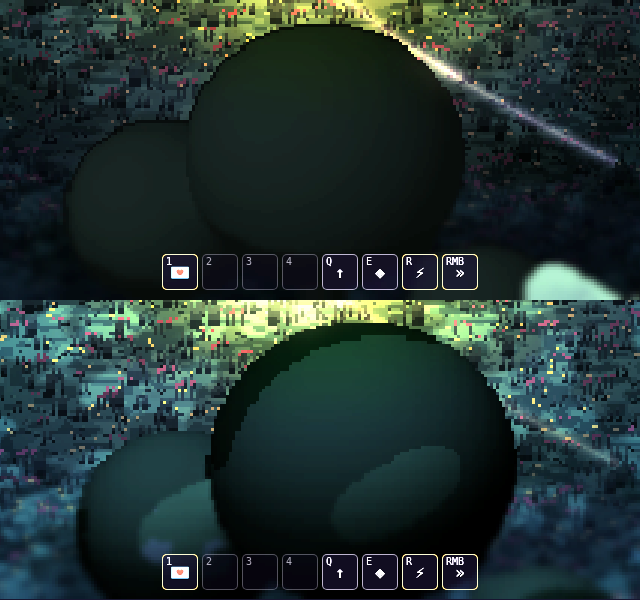
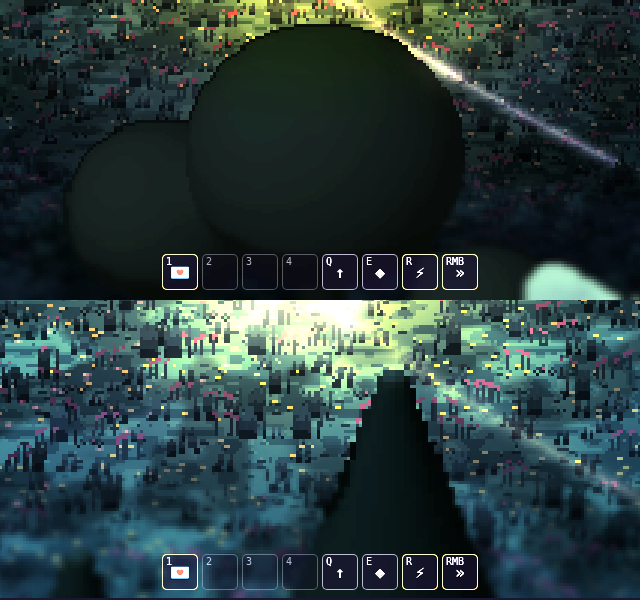
The legends' back forest: little spruces of stacked tiers, not round lollipop crowns
The moss feature (the elk's and the bear's legends) grew three trees with
ellipsoid crowns, which read as flat round domes from the game's camera
(golf's find, with the art director's round 2). Same heights; tiered cones in
LEAF3 and LEAF2. Art check passes.

Claude-Session: https://claude.ai/code/session_01FVGKHvaavDn5xGsWtRTBaz

diff --git a/tools/art-lab/dist/witch-art-lab.html b/tools/art-lab/dist/witch-art-lab.html
@@ -4364,7 +4364,7 @@ const TEMPLATES = {
       motes: [0, 0, 3, 9],              // glowing motes round adults and legends
     },
   },
-  avian: { name: "Bird", builders: ["owl", "raven"], sizes: { head: [.48, .36, .36, .36], headY: [.95, 1.08, 1.08, 1.08], build: [1, 1, 1.18, 1.18], motes: [0, 0, 3, 9] }, sockets: { wings: ["wing.folded", "wing.spirit"], head: ["head.round", "head.beak"] }, exclude: [], texture: { kind: "feathers" }, face: { brow: "tuft", happy: "arc", dazed: "wobble" }, gait: { offsets: [0, .5], dutyWalk: .6, dutyRun: .4 } },
+  avian: { name: "Bird", builders: ["owl", "raven", "heron"], sizes: { head: [.48, .36, .36, .36], headY: [.95, 1.08, 1.08, 1.08], build: [1, 1, 1.18, 1.18], motes: [0, 0, 3, 9] }, sockets: { wings: ["wing.folded", "wing.spirit"], head: ["head.round", "head.beak"] }, exclude: [], texture: { kind: "feathers" }, face: { brow: "tuft", happy: "arc", dazed: "wobble" }, gait: { offsets: [0, .5], dutyWalk: .6, dutyRun: .4 } },
   flyer: { sizes: TEMPLATE_SMALL_SIZES, name: "Flyer", builders: ["bat", "moth"], sockets: { wings: ["wing.membrane", "wing.scaled"] }, exclude: [], texture: { kind: "fur" }, face: { brow: "tuft", happy: "squint", dazed: "x" }, gait: { offsets: [], dutyWalk: 0, dutyRun: 0 } },
   serpent: { sizes: TEMPLATE_SMALL_SIZES, name: "Serpent or worm", builders: ["snake", "glowworm"], sockets: { head: ["head.snake", "head.worm"], tailTip: ["tail.lantern"] }, exclude: [], texture: { kind: "scales" }, face: { brow: "ridge", happy: "squint", dazed: "x" }, gait: { offsets: [], dutyWalk: 1, dutyRun: 1 } },
   insectoid: { sizes: TEMPLATE_SMALL_SIZES, name: "Many-legged", builders: ["beetle", "spider", "woodlouse"], sockets: { head: ["jaw.stag", "eyes.cluster", "antenna"] }, exclude: [], texture: { kind: "plates" }, face: { brow: "ridge", happy: "arc", dazed: "wobble" }, gait: { offsets: [0, .5, 0, .5, 0, .5], dutyWalk: .6, dutyRun: .5 } }, // alternating tripods
@@ -5039,7 +5039,9 @@ function quad3d(S, level, frame, st, facing = "towards") {
   if (has("crystals")) [.15, .3, .45, .6, .75].forEach((t, i) => { const b = backAt(t), h = [.3, .5, .4, .6, .35][i]; m.ell(v3.add(b, [0, h * .45, (i % 2 - .5) * .1]), [h * .55, .08, .08], M.MAGIC, { dir: [(i - 2) * .12, 1, 0], group: 80 + i % 2, extra: true, paint: p => p[2] > 0 ? M.MAGIC2 : undefined }); });
   if (has("moss")) {
     for (let i = 0; i < 6; i++) m.ell(backAt(.08 + i * .15), [len * .22, .07, bw * .85], M.LEAF, { group: 85, extra: true });
-    for (const [t, h] of [[.25, .55], [.5, .8], [.75, .45]]) { const b = backAt(t); m.seg(b, v3.add(b, [0, h * .7, 0]), .04, .025, M.TRUNK, { group: 86, extra: true }); m.ell(v3.add(b, [0, h * .8, 0]), [h * .28, h * .26, h * .28], M.LEAF2, { group: 87, extra: true, paint: p => p[1] < b[1] + h * .72 ? M.LEAF3 : undefined }); }
+    // its forest (a legendary feature, DESIGN.md): little spruces of stacked tiers, not round lollipop crowns, which read as
+    // flat domes from the game's camera (the art director's round 2: "mint domes"; golf's find); the same height as before
+    for (const [t, h] of [[.25, .55], [.5, .8], [.75, .45]]) { const b = backAt(t); m.seg(b, v3.add(b, [0, h * .5, 0]), .04, .025, M.TRUNK, { group: 86, extra: true }); for (let k = 0; k < 3; k++) { const y = h * (.22 + k * .24); m.seg(v3.add(b, [0, y, 0]), v3.add(b, [0, y + h * .38, 0]), h * .26 * (1 - k * .24), .012, k % 2 ? M.LEAF2 : M.LEAF3, { group: 87, extra: true }); } }
     for (const t of [.12, .4, .65, .9]) { const b = backAt(t); m.ell(v3.add(b, [0, .12, bw * .3]), [.07, .035, .07], M.MAGIC, { group: 89, extra: true }); }
   }
   if (has("ribbons")) for (let i = 0; i < 3; i++) { const pts = []; for (let k = 0; k < 9; k++) { const t = k / 8; pts.push([len * (.5 - t * 2.2), top + .05 + i * .1 + t * (.25 + i * .12) + Math.sin(t * 6 + frame + i) * .07, (i - 1) * .18, .04 * (1 - t * .6)]); } m.chain(pts, i % 2 ? M.MAGIC2 : M.MAGIC, { group: 90 + i, extra: true }); }
@@ -5207,6 +5209,35 @@ function raven3d(S, level, frame, st, facing = "towards") {
   if (has("wings")) for (const side of [-1, 1]) wing3d(m, [-.05, .65 + bob, side * .18], side, 1.1, frame ? .1 : 0, side > 0 ? M.MAGIC2 : M.MAGIC, M.MAGIC, 40 + (side > 0 ? 10 : 0));
   if (has("eyesRing")) for (let i = 0; i < 6; i++) { const a = Math.PI * (.2 + i / 5 * .6); m.ell([Math.cos(a) * .25 - .1, .95 + Math.sin(a) * .45, (i - 2.5) * .12], [.06, .06, .06], M.MAGIC2, { group: 95 + i, extra: true }); }
   return finish(m, S, level, st, .75, facing);
+}
+
+// The heron: a tall wading bird, on long legs kneed backwards, its neck in an S, a dagger beak and a plume off the back of its head.
+// For the area recipes' new species (Ed, 2026-10-06); its genome's levels can lengthen it (body.legs, body.neck, head.beak, head.crest).
+function heron3d(S, level, frame, st, facing = "towards") {
+  const legend = level === 3, m = new Model(), q = { ...(S.levelQ?.[level] || {}) }, bob = frame ? .02 : 0, lk = q.legs ?? 1, nk = q.neck ?? 1.45, bk = q.beak ?? 1;
+  const hip = .52 * lk + .25, by = hip + .18 + bob;
+  // legs: hip, knee (bending back), foot; long thin toes splayed forward
+  for (const side of [-1, 1]) {
+    const f = frame && side > 0 ? .05 : 0, z = side * .07, knee = [-.06, hip * .5 + f, z], foot = [.02 + f * .6, .03 + f * .4, z];
+    m.chain([[.0, hip, z, .024], [...knee, .015], [...foot, .013]], M.ACCENT, { group: side > 0 ? 7 : 2 });
+    for (const [dx, dz] of [[.13, -.04], [.15, 0], [.13, .04], [-.07, 0]]) m.seg(foot, v3.add(foot, [dx, -.01, dz]), .007, .003, M.ACCENT, { group: side > 0 ? 7 : 2 });
+    m.anchors.feet.push({ c: v3.add(foot, [.04, 0, 0]), r: .05, group: side > 0 ? 7 : 2, fit: "claw" });
+  }
+  // body: a slim tilted egg, grey, the wings folded along it with a dark shoulder; a short tail
+  m.ell([0, by, 0], [.3, .13, .12], M.BODY, { dir: [1, .3, 0] });
+  for (const side of [-1, 1]) m.ell([-.06, by + .02, side * .1], [.32, .11, .035], M.BODY2, { dir: [-1, -.2, 0], group: side > 0 ? 4 : 2, paint: p => p[0] > .12 ? M.BODY3 : undefined });
+  m.ell([-.36, by - .04, 0], [.14, .03, .08], M.BODY2, { dir: [-1, -.3, 0], group: 3 });
+  // the neck in an S, pale with a dark streak down its front
+  const n0 = [.22, by + .06, 0], n1 = [.34, by + .22 * nk, 0], n2 = [.24, by + .42 * nk, 0], hc = [.32, by + .58 * nk, 0];
+  m.chain([[...n0, .055], [...n1, .038], [...n2, .034], [...hc, .036]], M.BELLY, { paint: p => p[0] > (p[1] < n1[1] ? n0[0] + (p[1] - n0[1]) / (n1[1] - n0[1]) * (n1[0] - n0[0]) : n2[0]) + .03 && spotty(p, 30, .6) ? M.BODY3 : undefined });
+  // head, a black plume off its back, a dagger beak
+  const hr = .075;
+  m.ell(hc, [hr * 1.15, hr * .9, hr * .85], M.BELLY, { paint: p => p[1] > hc[1] + hr * .3 && p[0] < hc[0] + hr * .3 ? M.BODY3 : undefined });
+  const ck = q.crest ?? 1; if (ck) m.chain([[hc[0] - hr * .6, hc[1] + hr * .4, 0, .016], [hc[0] - hr * 2.2 * ck, hc[1] + hr * .7, 0, .01], [hc[0] - hr * 3.6 * ck, hc[1] + hr * .2, 0, .004]], M.BODY3, { group: 5, extra: true });
+  m.seg(v3.add(hc, [hr * .8, -hr * .15, 0]), v3.add(hc, [hr * (.8 + 3.6 * bk), -hr * .6, 0]), hr * .3, hr * .05, M.ACCENT, { group: 1 });
+  eyesOn(m, hc, [hr * 1.15, hr * .9, hr * .85], [[.5, .3, .7], [.5, .3, -.7]], hr * .2, legend ? M.MAGIC2 : M.EYE);
+  m.anchors.neck = { c: v3.lerp(n0, n1, .5), r: .06, dir: v3.norm(v3.sub(n1, n0)) };
+  return finish(m, S, level, st, 1.25, facing);
 }
 
 function bat3d(S, level, frame, st, facing = "towards") {
@@ -5420,7 +5451,7 @@ function spider3d(S, level, frame, st, facing = "towards") {
 
 // Every species is built in 3D (true three-quarter view, Ed 2026-10-03): four-legged ones by
 // quad3d, the others by a builder per body plan.
-const MODELLED = new Map(Object.entries({ owl: owl3d, hedgehog: hedgehog3d, toad: toad3d, raven: raven3d, bat: bat3d, mole: mole3d, beetle: beetle3d, snail: snail3d, woodlouse: woodlouse3d, snake: snake3d, moth: moth3d, glowworm: glowworm3d, spider: spider3d })); // body plan -> 3D builder; four-legged species all use quad3d
+const MODELLED = new Map(Object.entries({ owl: owl3d, hedgehog: hedgehog3d, toad: toad3d, raven: raven3d, heron: heron3d, bat: bat3d, mole: mole3d, beetle: beetle3d, snail: snail3d, woodlouse: woodlouse3d, snake: snake3d, moth: moth3d, glowworm: glowworm3d, spider: spider3d })); // body plan -> 3D builder; four-legged species all use quad3d
 
 // Builds one creature's sprite (uncached): its body plan's builder.
 const buildCreature = (S, level, frame, st, facing = "towards") => S.q ? quad3d(S, level, frame, st, facing) : MODELLED.get(S.plan)(S, level, frame, st, facing);
@@ -5496,7 +5527,7 @@ const SHAPE_KNOBS = ["size", "growth", "pixel", "head", "eye", "legs", "long", "
 // Give the same gear to speciesColours for its colours. Shapes are cached per gear combination.
 function critter(spId, level, frame, st, facing = "towards", gear = null) {
   if (facing === "away" && gear?.face) gear = { ...gear, face: null }; // (its face can't be seen from behind)
-  const S = SPECIES_BY_ID[spId] || SPECIES[0], g = gear && (gear.collar || gear.hat != null || gear.glasses || gear.shoes || gear.woken || (gear.face && gear.face !== "neutral")) ? { ...gear, faceStyle: S.face } : null;
+  const S = (typeof spId === "object" ? spId : SPECIES_BY_ID[spId]) || SPECIES[0], /* (a species object: one not in the bestiary yet, art/preview.mjs genome) */ g = gear && (gear.collar || gear.hat != null || gear.glasses || gear.shoes || gear.woken || (gear.face && gear.face !== "neutral")) ? { ...gear, faceStyle: S.face } : null;
   const key = [S.id, level, frame, facing, ...SHAPE_KNOBS.map(k => st[k]), g ? [!!g.collar, g.hat ?? "", g.glasses || "", g.shoes || "", !!g.woken, g.face && g.face !== "neutral" ? g.face : ""].join(",") : ""].join("|");
   let sp = cache.get(key);
   if (!sp) {

diff --git a/art/creatures3d.js b/art/creatures3d.js
@@ -354,7 +354,9 @@ export function quad3d(S, level, frame, st, facing = "towards") {
   if (has("crystals")) [.15, .3, .45, .6, .75].forEach((t, i) => { const b = backAt(t), h = [.3, .5, .4, .6, .35][i]; m.ell(v3.add(b, [0, h * .45, (i % 2 - .5) * .1]), [h * .55, .08, .08], M.MAGIC, { dir: [(i - 2) * .12, 1, 0], group: 80 + i % 2, extra: true, paint: p => p[2] > 0 ? M.MAGIC2 : undefined }); });
   if (has("moss")) {
     for (let i = 0; i < 6; i++) m.ell(backAt(.08 + i * .15), [len * .22, .07, bw * .85], M.LEAF, { group: 85, extra: true });
-    for (const [t, h] of [[.25, .55], [.5, .8], [.75, .45]]) { const b = backAt(t); m.seg(b, v3.add(b, [0, h * .7, 0]), .04, .025, M.TRUNK, { group: 86, extra: true }); m.ell(v3.add(b, [0, h * .8, 0]), [h * .28, h * .26, h * .28], M.LEAF2, { group: 87, extra: true, paint: p => p[1] < b[1] + h * .72 ? M.LEAF3 : undefined }); }
+    // its forest (a legendary feature, DESIGN.md): little spruces of stacked tiers, not round lollipop crowns, which read as
+    // flat domes from the game's camera (the art director's round 2: "mint domes"; golf's find); the same height as before
+    for (const [t, h] of [[.25, .55], [.5, .8], [.75, .45]]) { const b = backAt(t); m.seg(b, v3.add(b, [0, h * .5, 0]), .04, .025, M.TRUNK, { group: 86, extra: true }); for (let k = 0; k < 3; k++) { const y = h * (.22 + k * .24); m.seg(v3.add(b, [0, y, 0]), v3.add(b, [0, y + h * .38, 0]), h * .26 * (1 - k * .24), .012, k % 2 ? M.LEAF2 : M.LEAF3, { group: 87, extra: true }); } }
     for (const t of [.12, .4, .65, .9]) { const b = backAt(t); m.ell(v3.add(b, [0, .12, bw * .3]), [.07, .035, .07], M.MAGIC, { group: 89, extra: true }); }
   }
   if (has("ribbons")) for (let i = 0; i < 3; i++) { const pts = []; for (let k = 0; k < 9; k++) { const t = k / 8; pts.push([len * (.5 - t * 2.2), top + .05 + i * .1 + t * (.25 + i * .12) + Math.sin(t * 6 + frame + i) * .07, (i - 1) * .18, .04 * (1 - t * .6)]); } m.chain(pts, i % 2 ? M.MAGIC2 : M.MAGIC, { group: 90 + i, extra: true }); }
